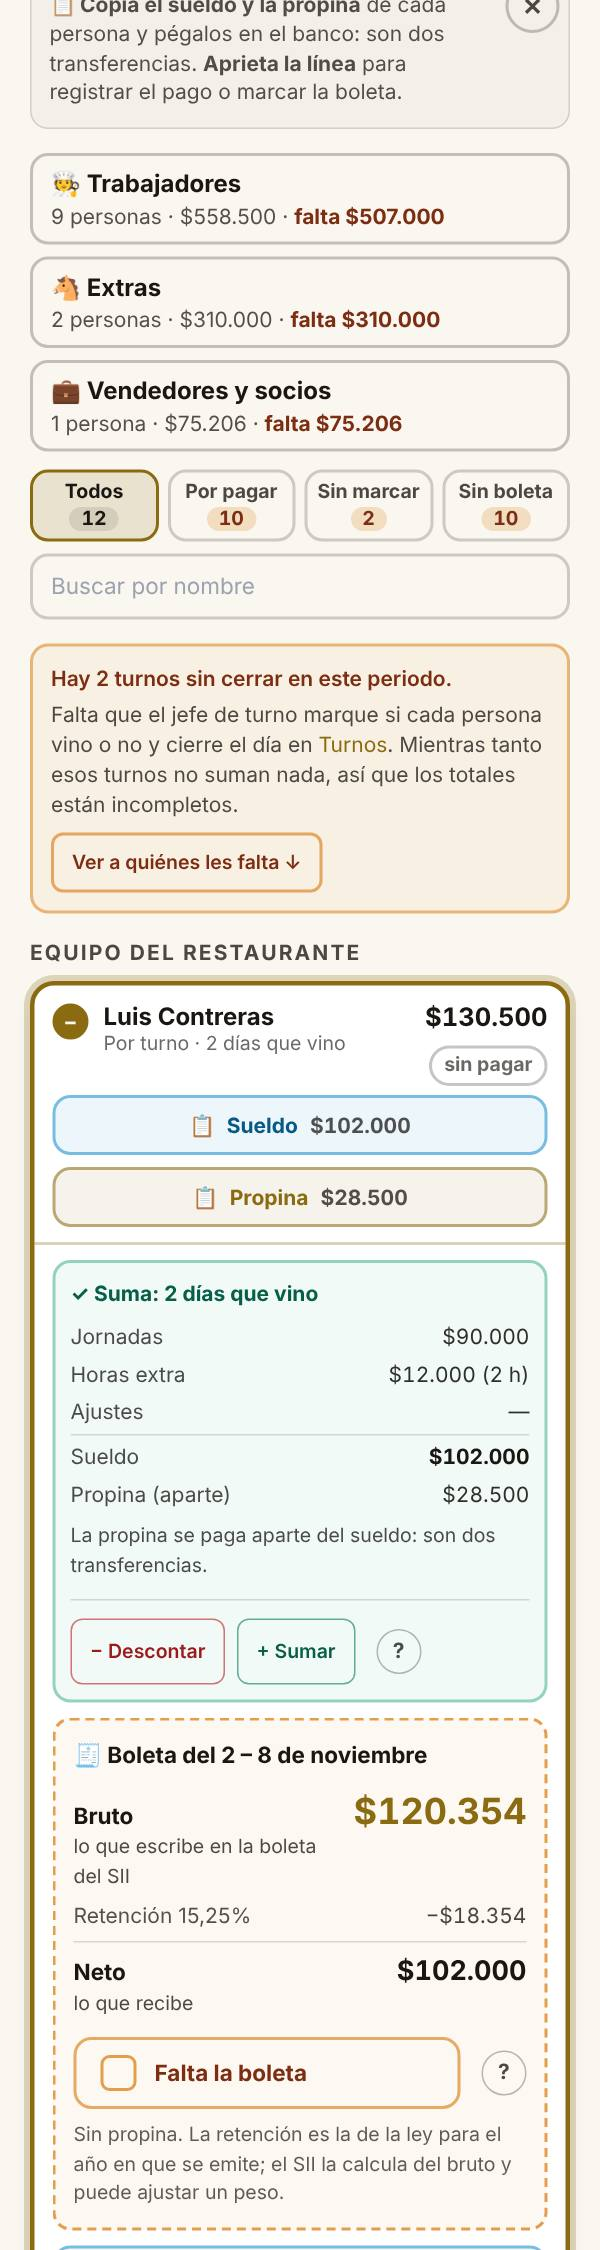
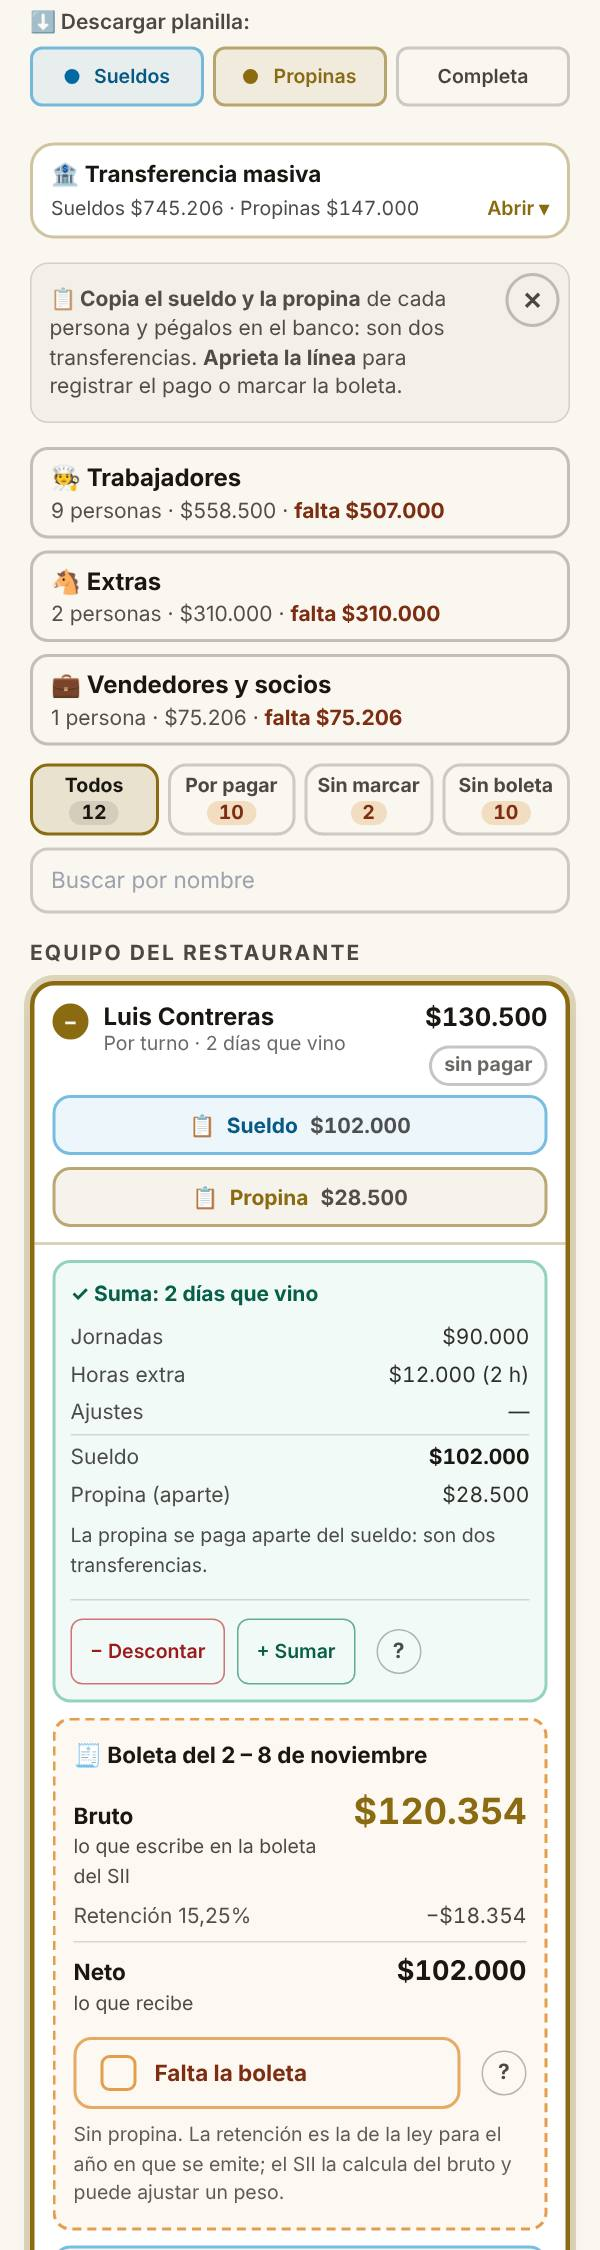
Informe: se saca el aviso de turnos sin cerrar; basta con el filtro Sin marcar
Lo decidió el cliente. Lo que decía el aviso lo dicen el filtro, con cuántos
son, y el aviso de cada tarjeta; el ? del informe, la misión y su foto lo
explican con el filtro.

Claude-Session: https://claude.ai/code/session_01SbCpLXRLiAYNdagAaPDDb9

Changed region(s): [[0.03, 0.0, 0.96, 0.4044]]

diff --git a/panel/src/components/InformeEquipo.tsx b/panel/src/components/InformeEquipo.tsx
@@ -995,8 +995,6 @@ export default function InformeEquipo() {
    * boletas"*). Un contratado nunca entra en el tercero.
    */
   const [filtro, setFiltro] = useState<'todos' | 'porPagar' | 'sinMarcar' | 'sinBoleta'>('todos');
-  /** Los filtros, para llegar a ellos —y al aviso y la lista de abajo— al filtrar desde el aviso. */
-  const filtros = useRef<HTMLDivElement>(null);
   const soloPorPagar = filtro === 'porPagar';
   /**
    * **Qué sección se ve** (2026-11-12, lo pidió el cliente: *"tres botones
@@ -1104,7 +1102,6 @@ export default function InformeEquipo() {
   const haySocios = vendedores.some((v) => v.tipo === 'socio');
   const total = lineas.reduce((s, l) => s + l.total, 0);
   const propina = lineas.reduce((s, l) => s + l.propina, 0);
-  const sinMarcar = lineas.reduce((s, l) => s + l.sinMarcar, 0);
   const totalExtras = lineasExtras.reduce((s, l) => s + l.total, 0);
   const sinConfirmar = lineasExtras.reduce((s, l) => s + l.sinConfirmar, 0);
   const cuentaDe = (nombre: string): Banco =>
@@ -1965,7 +1962,7 @@ export default function InformeEquipo() {
               *Por pagar*, con cuántos hay en cada uno— y el buscador de nombre.
               Filtran las dos listas, equipo y actividades extras; los totales
               de abajo siguen siendo los del periodo entero. */}
-          <div ref={filtros} className="mb-4 flex scroll-mt-3 flex-col gap-2 sm:flex-row sm:items-center">
+          <div className="mb-4 flex flex-col gap-2 sm:flex-row sm:items-center">
             {/* En el celular son tres columnas con el número debajo del
                 rótulo, las tres con la misma forma; en el computador, una
                 fila con el número al lado. */}
@@ -1991,46 +1988,10 @@ export default function InformeEquipo() {
               className="min-h-[44px] w-full rounded-xl border-2 border-hueso/20 bg-tinta px-3
                          text-[15px] focus:border-oro focus:outline-none sm:w-72" />
           </div>
-          {/* **Los turnos sin cerrar, justo arriba de la lista** (2026-11-21,
-              lo pidió el cliente: arriba de la página, *Ver a quiénes les
-              falta* filtraba una lista que quedaba fuera de la pantalla y
-              parecía que no hacía nada). Acá, el filtro cambia lo que está
-              justo debajo, y la página se mueve hasta los filtros: se ve
-              *Sin marcar* apretado, el aviso y la lista. */}
-          {sinMarcar > 0 && (
-            <div className="mb-4 rounded-xl border-2 border-ambar/50 bg-ambar/5 p-3 sm:flex sm:items-center sm:gap-4 sm:p-4">
-              <div className="min-w-0 flex-1">
-                <p className="text-sm font-semibold text-ambar-texto">
-                  Hay {sinMarcar} turno{sinMarcar === 1 ? '' : 's'} sin cerrar
-                  en este periodo.
-                </p>
-                {/* **Se dice con las palabras de la pantalla** (2026-11-05, lo
-                    pidió el cliente): el paso se llama *cerrar el día*, no "pasar
-                    lista". Primero qué pasa, después por qué y dónde se arregla. */}
-                <p className="mt-1 text-sm text-hueso/70">
-                  Falta que el jefe de turno marque si cada persona vino o no y
-                  cierre el día en{' '}
-                  <a href="/turnos" className="text-oro hover:underline">Turnos</a>.
-                  Mientras tanto esos turnos no suman nada, así que los totales
-                  están incompletos.
-                </p>
-              </div>
-              {filtro === 'sinMarcar' ? (
-                <button type="button" onClick={() => setFiltro('todos')}
-                  className="boton mt-2 min-h-[40px] shrink-0 !border-2 !font-semibold sm:mt-0">
-                  Ver a todos
-                </button>
-              ) : (
-                <button type="button" onClick={() => {
-                  setFiltro('sinMarcar');
-                  requestAnimationFrame(() => filtros.current?.scrollIntoView({ block: 'start', behavior: 'smooth' }));
-                }}
-                  className="boton mt-2 min-h-[40px] shrink-0 !border-2 !border-ambar/60 !font-semibold text-ambar-texto sm:mt-0">
-                  Ver a quiénes les falta ↓
-                </button>
-              )}
-            </div>
-          )}
+          {/* **Sin aviso de turnos sin cerrar** (2026-11-21, lo decidió el
+              cliente: *"basta con el botón Sin marcar"*). Lo dicen el filtro
+              *Sin marcar*, con cuántos son, y el *⚠ sin marcar: no suma* de
+              cada tarjeta. */}
           {visiblesEquipo.length === 0 && visiblesExtras.length === 0 && visiblesVendedores.length === 0 && (
             <p className="mb-8 rounded-xl border-2 border-hueso/15 px-4 py-3 text-[15px] text-hueso/70">
               {soloPorPagar && !q

diff --git a/panel/src/lib/ayudas.ts b/panel/src/lib/ayudas.ts
@@ -257,9 +257,9 @@ export const AYUDAS: Record<string, Ayuda> = {
     pasos: [
       'Abre en la semana pasada, que es la que se paga. Puedes elegir otra '
       + 'semana, el mes, o dos fechas sueltas.',
-      'Justo arriba de la lista sale si quedan turnos sin cerrar: mientras los '
-      + 'haya, los totales están incompletos. Ver a quiénes les falta deja en la '
-      + 'lista solo a esas personas.',
+      'El filtro Sin marcar dice cuántas personas tienen días sin cerrar y deja '
+      + 'solo a ellas: esos días no suman, así que mientras haya, los totales '
+      + 'están incompletos.',
       'En la línea de cada persona están los botones para copiar su sueldo y '
       + 'su propina. Copian solo los datos, uno por línea, en el orden del '
       + 'formulario del banco —nombre y apellido, RUT, banco, tipo de cuenta, '

diff --git a/panel/src/lib/misiones.ts b/panel/src/lib/misiones.ts
@@ -194,7 +194,7 @@ const OPERACIONES: Mision[] = [
     id: 'informe', emoji: '📊', titulo: 'El informe: lo que cuesta el equipo', escena: 'ope-informe',
     intro: 'Por persona: cuántos días vino, sus jornadas, ajustes y total, y cuánto tiene que boletear. El periodo se elige arriba: día, semana, mes u otro rango.',
     puntos: [
-      'Si falta cerrar un turno, el total está incompleto.',
+      'Sin marcar: quién tiene días sin cerrar. Esos días no suman: el total está incompleto.',
       'Trabajadores y extras, cada uno con lo que falta.',
       '🧾 Sin boleta: a quién le falta mandarla. Abre su línea y ves el bruto para el SII y el neto.'
     ],

diff --git a/panel/CLAUDE.md b/panel/CLAUDE.md
@@ -185,12 +185,13 @@ ejemplo, con capturas de antes y después, y el cliente dijo que sí. Todo en
   así que alguien con $16.500 por pagar quedaba debajo de dos en $0.
 - **Filtro *Sin marcar (N)***, al lado de *Todos · Por pagar · Sin boleta*:
   quien tiene algún día sin marcar en el periodo (equipo y extras; los
-  vendedores no tienen días). El aviso *Hay N turnos sin cerrar* trae **Ver
-  a quiénes les falta ↓**, que lo activa. **El aviso va justo arriba de la
-  lista**, bajo los filtros (lo pidió el cliente el mismo día: arriba de la
-  página, el botón filtraba una lista que quedaba fuera de la pantalla y
-  parecía que no hacía nada). Al apretarlo, la página baja hasta el aviso, y
-  con el filtro puesto el botón dice *Ver a todos*.
+  vendedores no tienen días). **Ya no hay aviso *Hay N turnos sin
+  cerrar***: lo decidió el cliente el mismo día (*"basta con el botón Sin
+  marcar"*). Tenía un botón *Ver a quiénes les falta →* que activaba este
+  mismo filtro y, arriba de la página, filtraba una lista que quedaba fuera
+  de la pantalla. Lo que el aviso decía lo dicen el filtro, con cuántos son,
+  y el *⚠ sin marcar: no suma* de cada tarjeta; el `?` del informe y su
+  misión dicen que esos días no suman.
 - **Dónde empieza y termina cada persona**: borde de **3px y oscuro**
   (`border-hueso/55`), más grueso que cualquier línea de adentro —que van de
   1 a 2px y claras—, una sombra y 12px entre una tarjeta y la otra; abierta,
